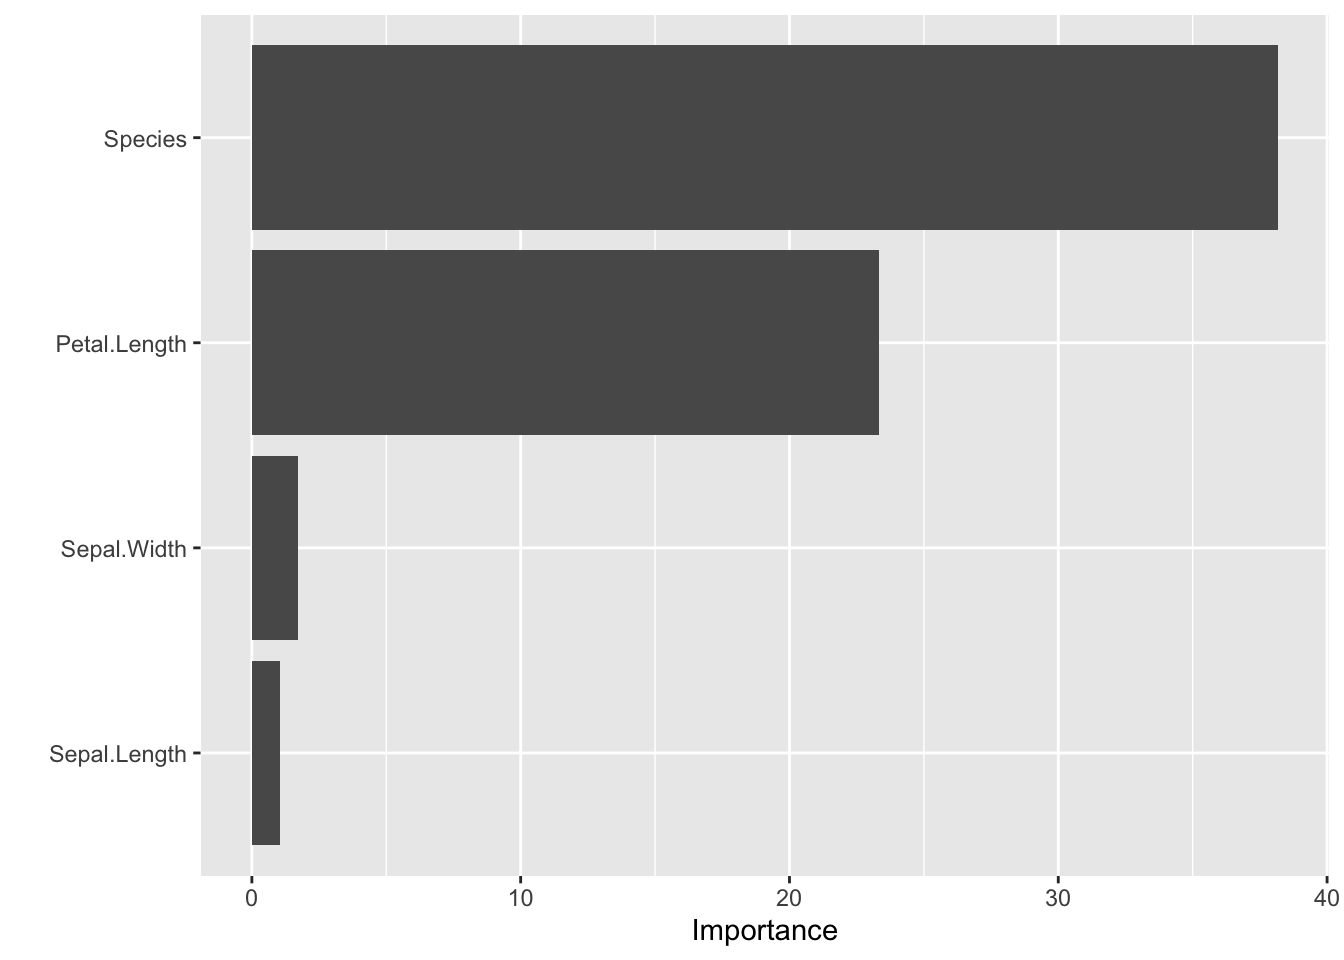
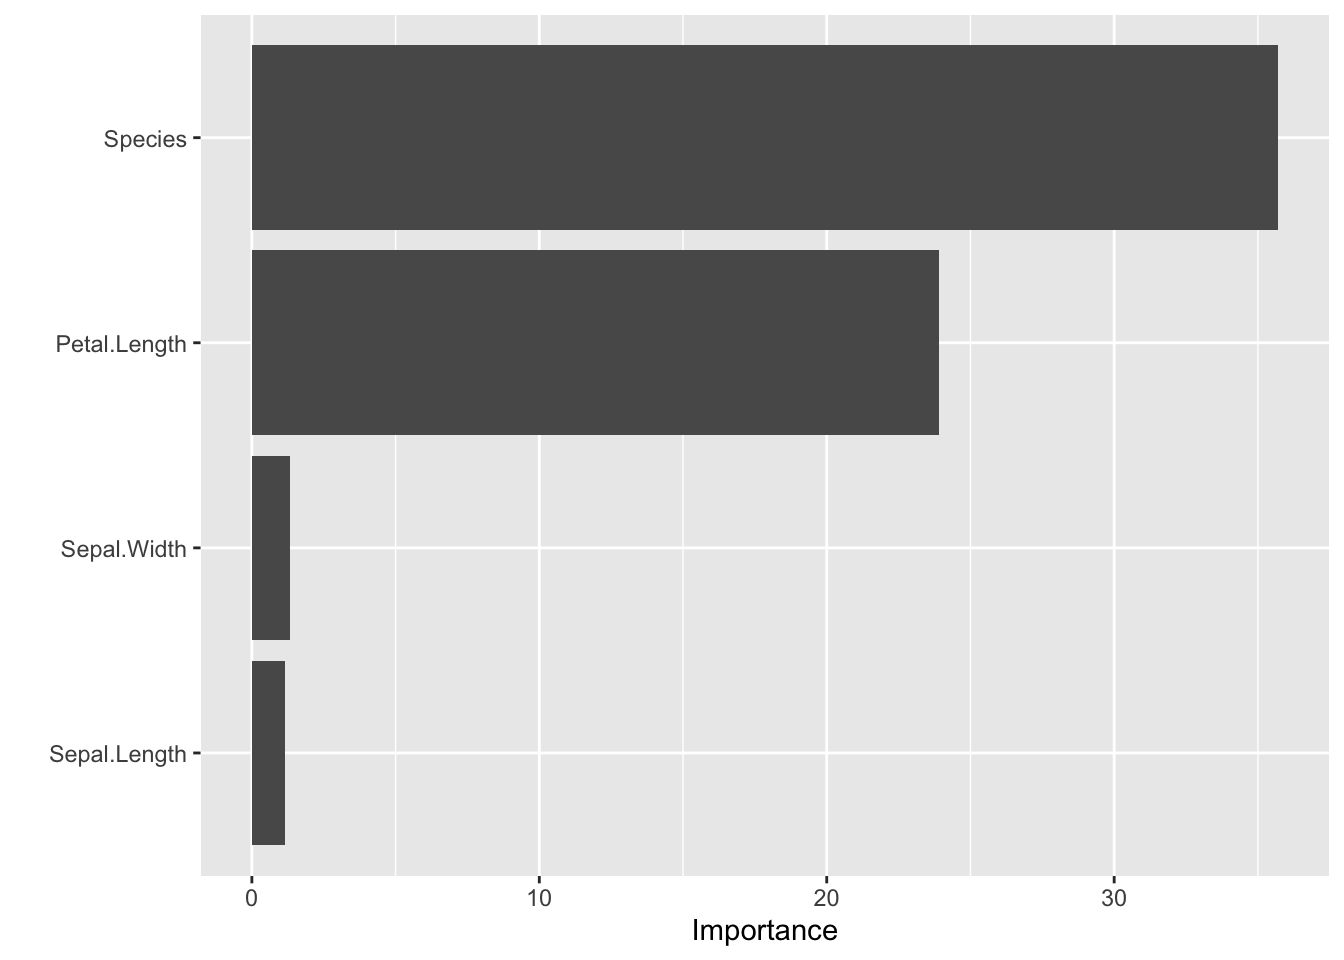
fix broken img link

diff --git a/content/post/2020-11-28-comparing-knime-and-r-simple-random-forest/index.html b/content/post/2020-11-28-comparing-knime-and-r-simple-random-forest/index.html
@@ -60,9 +60,9 @@ tags:
 
 <div id="knime-workflow" class="section level1">
 <h1>Knime Workflow</h1>
-<p>Consider <a href="">this</a> Knime workflow:</p>
-<p><img src="https://i.postimg.cc/fLDcGmML/knime-rf.png" /></p>
-<p>That’s a simple Random Forest workflow.</p>
+<p>Consider <a href="https://hub.knime.com/knime/spaces/Examples/latest/04_Analytics/13_Meta_Learning/02_Learning_a_Random_Forest">this</a> Knime workflow:</p>
+<p><a href="https://ibb.co/7j3crnM"><img src="https://i.ibb.co/djN9kPC/knime-rf.png" alt="knime-rf" border="0"></a><br /><a target='_blank' href='https://de.imgbb.com/'>de picture</a><br /></p>
+<p>That’s a simple Random Forest workflow, you can download the Knime worfklow <a href="https://kni.me/w/Sim-pKlioDWrgj_T">here</a>.</p>
 </div>
 <div id="translate-it-to-r" class="section level1">
 <h1>Translate it to R!</h1>
@@ -171,7 +171,7 @@ rf_fit &lt;-
 ## Target node size:                 10 
 ## Variable importance mode:         none 
 ## Splitrule:                        gini 
-## OOB prediction error (Brier s.):  0.02924134</code></pre>
+## OOB prediction error (Brier s.):  0.0199251</code></pre>
 </div>
 <div id="model-results-in-test-data" class="section level2">
 <h2>Model results in test data</h2>
@@ -185,15 +185,15 @@ rf_fit &lt;-
 <pre><code>## # A tibble: 1 x 3
 ##   .metric .estimator .estimate
 ##   &lt;chr&gt;   &lt;chr&gt;          &lt;dbl&gt;
-## 1 roc_auc hand_till          1</code></pre>
+## 1 roc_auc hand_till      0.991</code></pre>
 <pre class="r"><code>testdata_augmented %&gt;% 
   metrics(truth = Species, 
           estimate = .pred_class)</code></pre>
 <pre><code>## # A tibble: 2 x 3
 ##   .metric  .estimator .estimate
 ##   &lt;chr&gt;    &lt;chr&gt;          &lt;dbl&gt;
-## 1 accuracy multiclass     0.944
-## 2 kap      multiclass     0.917</code></pre>
+## 1 accuracy multiclass     0.917
+## 2 kap      multiclass     0.875</code></pre>
 </div>
 <div id="roc" class="section level3">
 <h3>ROC</h3>
@@ -212,31 +212,31 @@ rf_fit &lt;-
 ##             Reference
 ## Prediction   setosa versicolor virginica
 ##   setosa         12          0         0
-##   versicolor      0         10         0
-##   virginica       0          2        12
+##   versicolor      0          9         0
+##   virginica       0          3        12
 ## 
 ## Overall Statistics
 ##                                           
-##                Accuracy : 0.9444          
-##                  95% CI : (0.8134, 0.9932)
+##                Accuracy : 0.9167          
+##                  95% CI : (0.7753, 0.9825)
 ##     No Information Rate : 0.3333          
-##     P-Value [Acc &gt; NIR] : 1.728e-14       
+##     P-Value [Acc &gt; NIR] : 3.978e-13       
 ##                                           
-##                   Kappa : 0.9167          
+##                   Kappa : 0.875           
 ##                                           
 ##  Mcnemar&#39;s Test P-Value : NA              
 ## 
 ## Statistics by Class:
 ## 
 ##                      Class: setosa Class: versicolor Class: virginica
-## Sensitivity                 1.0000            0.8333           1.0000
-## Specificity                 1.0000            1.0000           0.9167
-## Pos Pred Value              1.0000            1.0000           0.8571
-## Neg Pred Value              1.0000            0.9231           1.0000
+## Sensitivity                 1.0000            0.7500           1.0000
+## Specificity                 1.0000            1.0000           0.8750
+## Pos Pred Value              1.0000            1.0000           0.8000
+## Neg Pred Value              1.0000            0.8889           1.0000
 ## Prevalence                  0.3333            0.3333           0.3333
-## Detection Rate              0.3333            0.2778           0.3333
-## Detection Prevalence        0.3333            0.2778           0.3889
-## Balanced Accuracy           1.0000            0.9167           0.9583</code></pre>
+## Detection Rate              0.3333            0.2500           0.3333
+## Detection Prevalence        0.3333            0.2500           0.4167
+## Balanced Accuracy           1.0000            0.8750           0.9375</code></pre>
 </div>
 </div>
 </div>
@@ -313,8 +313,8 @@ rf_fit_regr &lt;-
 ## Target node size:                 5 
 ## Variable importance mode:         impurity 
 ## Splitrule:                        variance 
-## OOB prediction error (MSE):       0.03181864 
-## R squared (OOB):                  0.9452525</code></pre>
+## OOB prediction error (MSE):       0.03521464 
+## R squared (OOB):                  0.9372999</code></pre>
 </div>
 <div id="model-results-in-test-data-1" class="section level2">
 <h2>Model results in test data</h2>
@@ -683,17 +683,17 @@ rf_fit_regr &lt;-
     <tr>
       <td class="gt_row gt_left">rmse</td>
       <td class="gt_row gt_left">standard</td>
-      <td class="gt_row gt_right">0.1710008</td>
+      <td class="gt_row gt_right">0.1745278</td>
     </tr>
     <tr>
       <td class="gt_row gt_left">rsq</td>
       <td class="gt_row gt_left">standard</td>
-      <td class="gt_row gt_right">0.9495973</td>
+      <td class="gt_row gt_right">0.9627769</td>
     </tr>
     <tr>
       <td class="gt_row gt_left">mae</td>
       <td class="gt_row gt_left">standard</td>
-      <td class="gt_row gt_right">0.1297074</td>
+      <td class="gt_row gt_right">0.1324681</td>
     </tr>
   </tbody>
   
